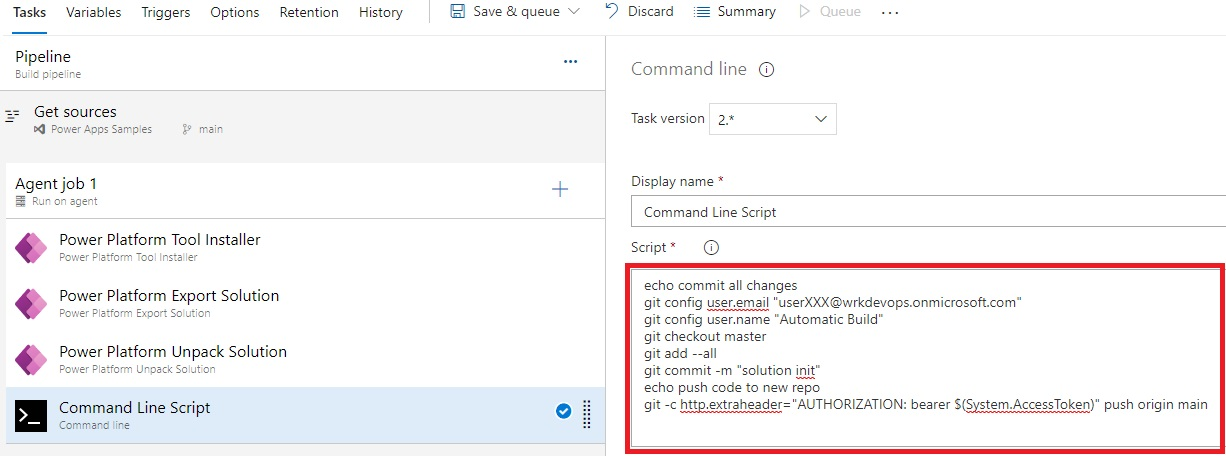
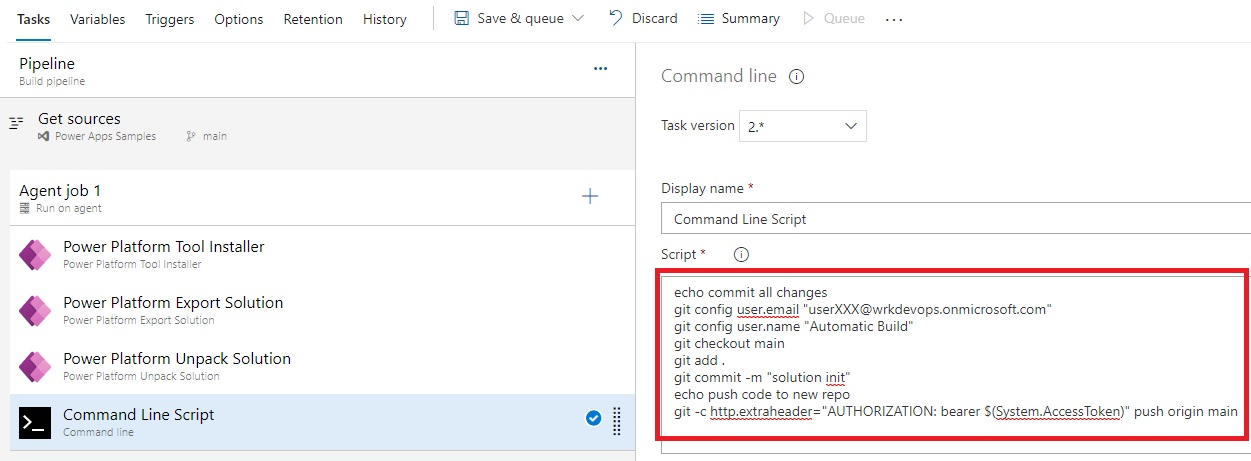
Module 2 extended

diff --git a/build-tools/PowerApps_Build Tools_Lab/PowerPlatform_DevOps_Module2.md b/build-tools/PowerApps_Build Tools_Lab/PowerPlatform_DevOps_Module2.md
@@ -207,7 +207,7 @@ Next, we are going to add some scripts as a next pipeline step to commit the sol
 echo commit all changes
 git config user.email "userXXX@wrkdevops.onmicrosoft.com"
 git config user.name "Automatic Build"
-git checkout master
+git checkout main
 git add --all
 git commit -m "solution init"
 echo push code to new repo
@@ -254,3 +254,93 @@ git -c http.extraheader="AUTHORIZATION: bearer $(System.AccessToken)" push origi
 
 50. Click **Save and queue** and observe the results. Fix any issues until you get a successful build.
 
+![Success](./assets/module2/img43.jpg)
+
+**Note** You can get more details about any issues found by setting the variable **debug** to **true**.
+
+![Success](./assets/module2/img44.jpg)
+
+51. Let's go look at what it added to your source control now. Click **Repos and Files** and notice that it added a new folder that contains your solution files.
+
+![Repos](./assets/module2/img45.jpg)
+
+## Pipeline 2: Build your Managed Solution
+
+Your unmanaged solution is checked into source control, but you need to have a managed solution to deploy to other environments such as test and production. To obtain your managed solution to deploy to other environments such as test and production. To obtain your managed solution, you should ue a **Just-In-Time**(JIT) build environment where you would import your unmanaged solution files then export them as managed. These managed solution files will not be checked into source control buy will be stored as a build artifact in your pipeline. This will make them available to be deployed in your release pipeline.
+
+52. Navigate to your pipelines and add a new build pipeline.
+
+![Repos](./assets/module2/img46.jpg)
+
+53. Click **Use the classic editor** link to build the pipeline without YAML. On the next screen use the defaults and click **Continue**. Finally, click on the **Empty job**link on the template selection page shown below.
+
+![Job](./assets/module2/img47.jpg)
+
+54. Name the pipeline **Build Managed Solution** and Save it. This will give you an empty pipeline.
+
+![Job](./assets/module2/img48.jpg)
+
+55. A small note on navigation. If you have problems seeing your newly created pipeline, you can see all the pipelines you have created in the **All** tab.
+
+![Pipelines](./assets/module2/img49.jpg)
+
+56. In your empty pipeline, add the Power Platform Tool Installer task.
+
+![Add](./assets/module2/img50.jpg)
+
+57. Add the Power Platform Pack Solution task.
+
+![Add](./assets/module2/img51.jpg)
+
+58. Configure the pack solution task with the following parameters:
+
+* **Source folder of Solution to Pack**: $(Build.SourcesDirectory)\$(SolutionName)
+* **Solution Output File**: $(Build.ArtifactStagingDirectory)\$(SolutionName).zip
+
+![Add](./assets/module2/img52.jpg)
+
+59. On the pipeline screen, switch to the variables tab in the pipeline and add the SolutionName variables with your unique solution name. This should be your solution name from Module 1. Click **Save** (through the **Save & Queue dropdown).
+
+![Save](./assets/module2/img53.jpg)
+
+60. The next task will be to import the solution into your build server, so we need to add a connection to that environment before we add and configure the task to do the import. Click the **Project settings** link in the lower left of the screen and navigate to **Service connections** then click **New service connection**.
+
+![Connection](./assets/module2/img54.jpg)
+
+61. Select **Generic** on the New Service connection page and click **Next**.
+
+![Connection](./assets/module2/img55.jpg)
+
+62. Fill out the required details:
+
+* **Server URL**: https://<environment-url>.crm.dynamics.com. This should be the URL to your build environment.
+* **Username**: Username of a user with administrator access to the environment.
+* **Password**: Associated password for the user
+* **Service connection name**: This name will be used to identify which environment to connect to in the Build tasks.
+* **Description**: Give the connection a description that helps you identify the environment the service connection connects to.
+
+The sample connection is shown below.
+
+![Generic](./assets/module2/img56.jpg)
+
+**Note**: If you forgot to record the server URL for your build environment, simple visit [https://admin.powerplatform.microsoft.com/](https://admin.powerplatform.microsoft.com/) click the environment. This will open another tab displaying the environment URL. Make sure it is your build environment.
+
+![Environments](./assets/module2/img57.jpg)
+
+![Environments](./assets/module2/img58.jpg)
+
+63. Click **Save** You will be in the pipeline service connections area in your project.
+
+64. Navigate back to your Build Management Solution pipeline (if you don't see the pipeline go to step 55 on how to view all the pipelines). Click **Edit**, and then add the **Power Platform Import Solution** task to take the solution file and import into your build environment.
+
+![Import](./assets/module2/img59.jpg)
+
+65. Select the connection you just added to your build server and provide the following for the solution input file: $(Build.ArtifactStagingDirectory)\$(SolutionName).zip.
+
+![Select](./assets/module2/img60.jpg)
+
+66. Add a task to export the solution file as a managed file.
+
+![Add](./assets/module2/img61.jpg)
+
+67. 
